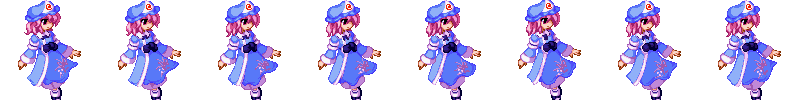
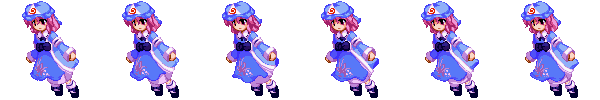
컨트롤러
.

diff --git a/stage1.py b/stage1.py
@@ -7,7 +7,7 @@ from pico2d import *
 import game_framework
 import title_state
 
-name = "MainState"
+name = "stage1"
 
 mainch = None
 Bg = None
@@ -26,65 +26,115 @@ class boss1:
         self.frame = 0
         self.image = load_image('2d image/2dsource/boss1.png')
     def update(self):
-        delay(0.05)
+        delay(0.01)
         self.frame = (self.frame +1)%3
     def draw(self):
         self.image.clip_draw(self.frame*200,0,200,200,self.x,self.y)
 
-
 class Mainch:
-    LEFT_RUN, RIGHT_RUN, STAND, UP_RUN, DOWN_RUN = 0, 1, 2, 3, 4
+    LEFT_RUN, RIGHT_RUN, LEFT_STAND,RIGHT_STAND, UP_RUN, DOWN_RUN = 0, 1, 2, 3, 4, 5
 
     def __init__(self):
         self.x, self.y = 450, 450
-        self.frame = 0
-        self.state = self.STAND
+        self.standframe= 0
+        self.frame = 0                  # 걸어다닐때
+        self.dashframe = 0              #
+        self.state = self.RIGHT_STAND
+        self.tempstate = self.RIGHT_STAND
+        #서있을떄
+        self.standimage = load_image('2d image/2dsource/stand_right.png')
+        self.standimage2 = load_image('2d image/2dsource/stand_left.png')
+
+        #보통 다닐때
         self.image = load_image('2d image/2dsource/walk_foward.png')
+        self.image2 = load_image('2d image/2dsource/walk_back.png')
+        self.image3 = load_image('2d image/2dsource/walk_foward.png')
+        self.image4 = load_image('2d image/2dsource/walk_foward.png')
+
+        #대쉬상태
+        self.dashimage = load_image('2d image/2dsource/dash_foward.png')     #앞 대쉬   #대쉬 이미지
+        self.dashimage2 = load_image('2d image/2dsource/dash_back.png')      #뒤 대쉬
+        self.dashimage3 = load_image('2d image/2dsource/dash_up.png')        #윗 대쉬
+        self.dashimage4 = load_image('2d image/2dsource/dash_down.png')     #아랫 대쉬
         self.dir = 1    #방향4
+        self.boost = False
 
     def update(self):
         self.frame = (self.frame + 1) % 6
-        #self.x += self.dir
-        # if self.x >= 800:
-        #     self.dir = -1
-        # elif self.x <= 0:
-        #     self.dir = 1
+        self.dashframe = (self.dashframe+1)%3
+        self.standframe = (self.standframe+1)%10
+        if self.boost==True:
+            boostspeed = 5
+        elif self.boost == False:
+            boostspeed=0
+
         if self.state == self.RIGHT_RUN:
-            self.x = min(1580, self.x + 5)
+            self.x = min(1580, self.x + 5+boostspeed)
         elif self.state == self.LEFT_RUN:
-            self.x = max(60, self.x - 5)
+            self.x = max(60, self.x - 5-boostspeed)
         elif self.state == self.UP_RUN:
-            self.y = min(880, self.y + 5)
+            self.y = min(880, self.y + 5+boostspeed)
         elif self.state == self.DOWN_RUN:
-            self.y = max(60, self.y - 5)
+            self.y = max(60, self.y - 5-boostspeed)
         pass
     def handle_event(self, event):
+        if (event.type, event.key) == (SDL_KEYDOWN, SDLK_v):
+            self.boost=True
+        if (event.type, event.key) == (SDL_KEYUP, SDLK_v):
+            self.boost = False
         if (event.type, event.key) == (SDL_KEYDOWN, SDLK_LEFT):
-            if self.state in (self.STAND, self.RIGHT_RUN, self.UP_RUN, self.DOWN_RUN):
+            if self.state in (self.RIGHT_STAND,self.LEFT_STAND ,self.RIGHT_RUN, self.UP_RUN, self.DOWN_RUN):
                 self.state = self.LEFT_RUN
         elif (event.type, event.key) == (SDL_KEYDOWN, SDLK_RIGHT):
-            if self.state in (self.STAND, self.LEFT_RUN, self.UP_RUN, self.DOWN_RUN):
+            if self.state in (self.RIGHT_STAND,self.LEFT_STAND, self.LEFT_RUN, self.UP_RUN, self.DOWN_RUN):
                 self.state = self.RIGHT_RUN
         elif (event.type, event.key) == (SDL_KEYDOWN, SDLK_UP):
-            if self.state in (self.STAND, self.RIGHT_RUN, self.LEFT_RUN, self.DOWN_RUN):
+            if self.state in (self.RIGHT_STAND,self.LEFT_STAND, self.RIGHT_RUN, self.LEFT_RUN, self.DOWN_RUN):
                 self.state = self.UP_RUN
         elif (event.type, event.key) == (SDL_KEYDOWN, SDLK_DOWN):
-            if self.state in (self.STAND, self.RIGHT_RUN, self.LEFT_RUN, self.UP_RUN):
+            if self.state in (self.RIGHT_STAND,self.LEFT_STAND, self.RIGHT_RUN, self.LEFT_RUN, self.UP_RUN):
                 self.state = self.DOWN_RUN
         elif (event.type, event.key) == (SDL_KEYUP, SDLK_LEFT):
             if self.state in (self.LEFT_RUN,):
-                self.state = self.STAND
+                self.state = self.LEFT_STAND
+                self.tempstate = self.LEFT_STAND
         elif (event.type, event.key) == (SDL_KEYUP, SDLK_RIGHT):
             if self.state in (self.RIGHT_RUN,):
-                self.state = self.STAND
+                self.state = self.RIGHT_STAND
+                self.tempstate = self.RIGHT_STAND
         elif (event.type, event.key) == (SDL_KEYUP, SDLK_UP):
             if self.state in (self.UP_RUN,):
-                self.state = self.STAND
+                self.state = self.tempstate
         elif (event.type, event.key) == (SDL_KEYUP, SDLK_DOWN):
             if self.state in (self.DOWN_RUN,):
-                self.state = self.STAND
+                self.state = self.tempstate
     def draw(self):
-        self.image.clip_draw(self.frame * 100, 0, 100, 100, self.x, self.y)
+        if self.boost == True:
+            if self.state==self.RIGHT_STAND:
+                self.standimage.clip_draw(self.standframe * 100, 0, 100, 100, self.x, self.y)
+            elif self.state==self.LEFT_STAND:
+                self.standimage2.clip_draw(self.standframe * 100, 0, 100, 100, self.x, self.y)
+            elif self.state==self.RIGHT_RUN:
+                self.dashimage.clip_draw(self.dashframe*100,0,100,100,self.x, self.y)   #대쉬 앞
+            elif self.state==self.LEFT_RUN:
+                self.dashimage2.clip_draw(self.dashframe*100,0,100,100,self.x, self.y)  #대쉬 뒤
+            elif self.state==self.UP_RUN:
+                self.dashimage3.clip_draw(self.dashframe*100,0,100,100,self.x, self.y)
+            elif self.state==self.DOWN_RUN:
+                self.dashimage4.clip_draw(self.dashframe*100,0,100,100,self.x, self.y)
+        elif self.boost ==False :
+            if self.state==self.RIGHT_STAND:
+                self.standimage.clip_draw(self.standframe * 100, 0, 100, 100, self.x, self.y)
+            elif self.state==self.LEFT_STAND:
+                self.standimage2.clip_draw(self.standframe * 100, 0, 100, 100, self.x, self.y)
+            elif self.state== self.RIGHT_RUN:
+                self.image.clip_draw(self.frame * 100, 0, 100, 100, self.x, self.y)
+            elif self.state== self.LEFT_RUN:
+                self.image2.clip_draw(self.frame * 100, 0, 100, 100, self.x, self.y)
+            elif self.state== self.UP_RUN:
+                self.image3.clip_draw(self.frame * 100, 0, 100, 100, self.x, self.y)
+            elif self.state== self.DOWN_RUN:
+                self.image4.clip_draw(self.frame * 100, 0, 100, 100, self.x, self.y)
 
 def enter():
     open_canvas(1600,900)
